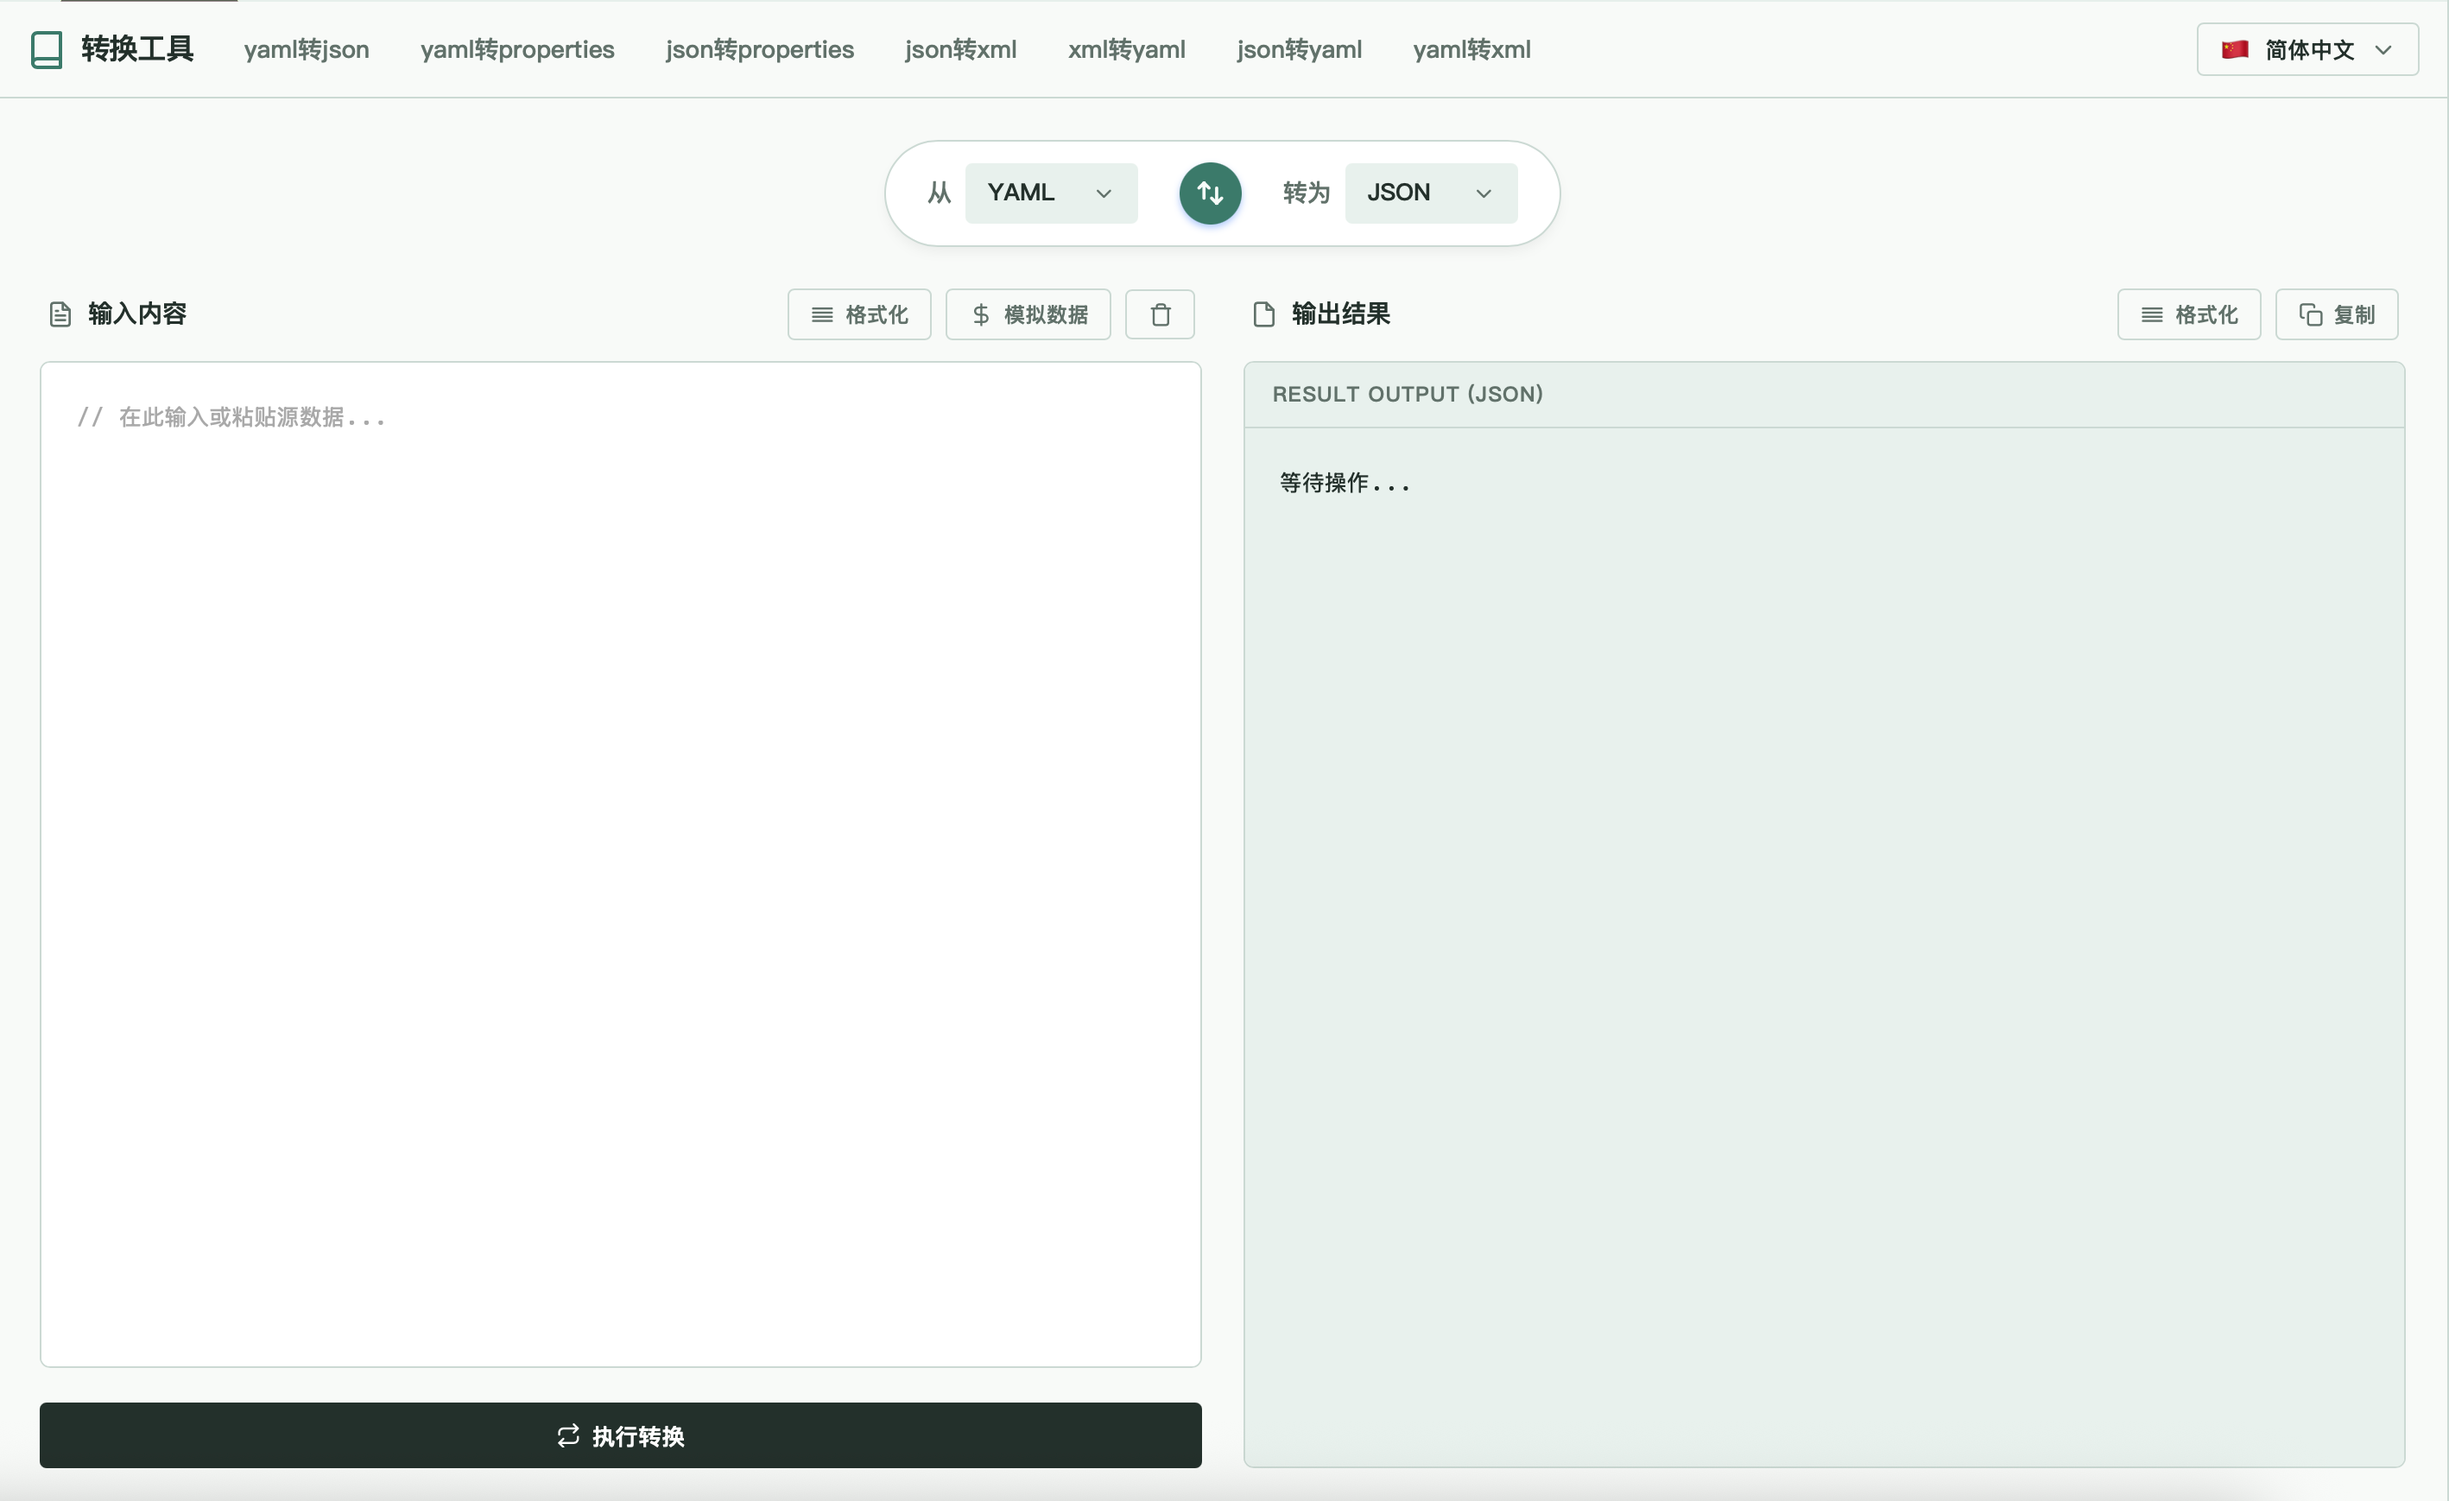
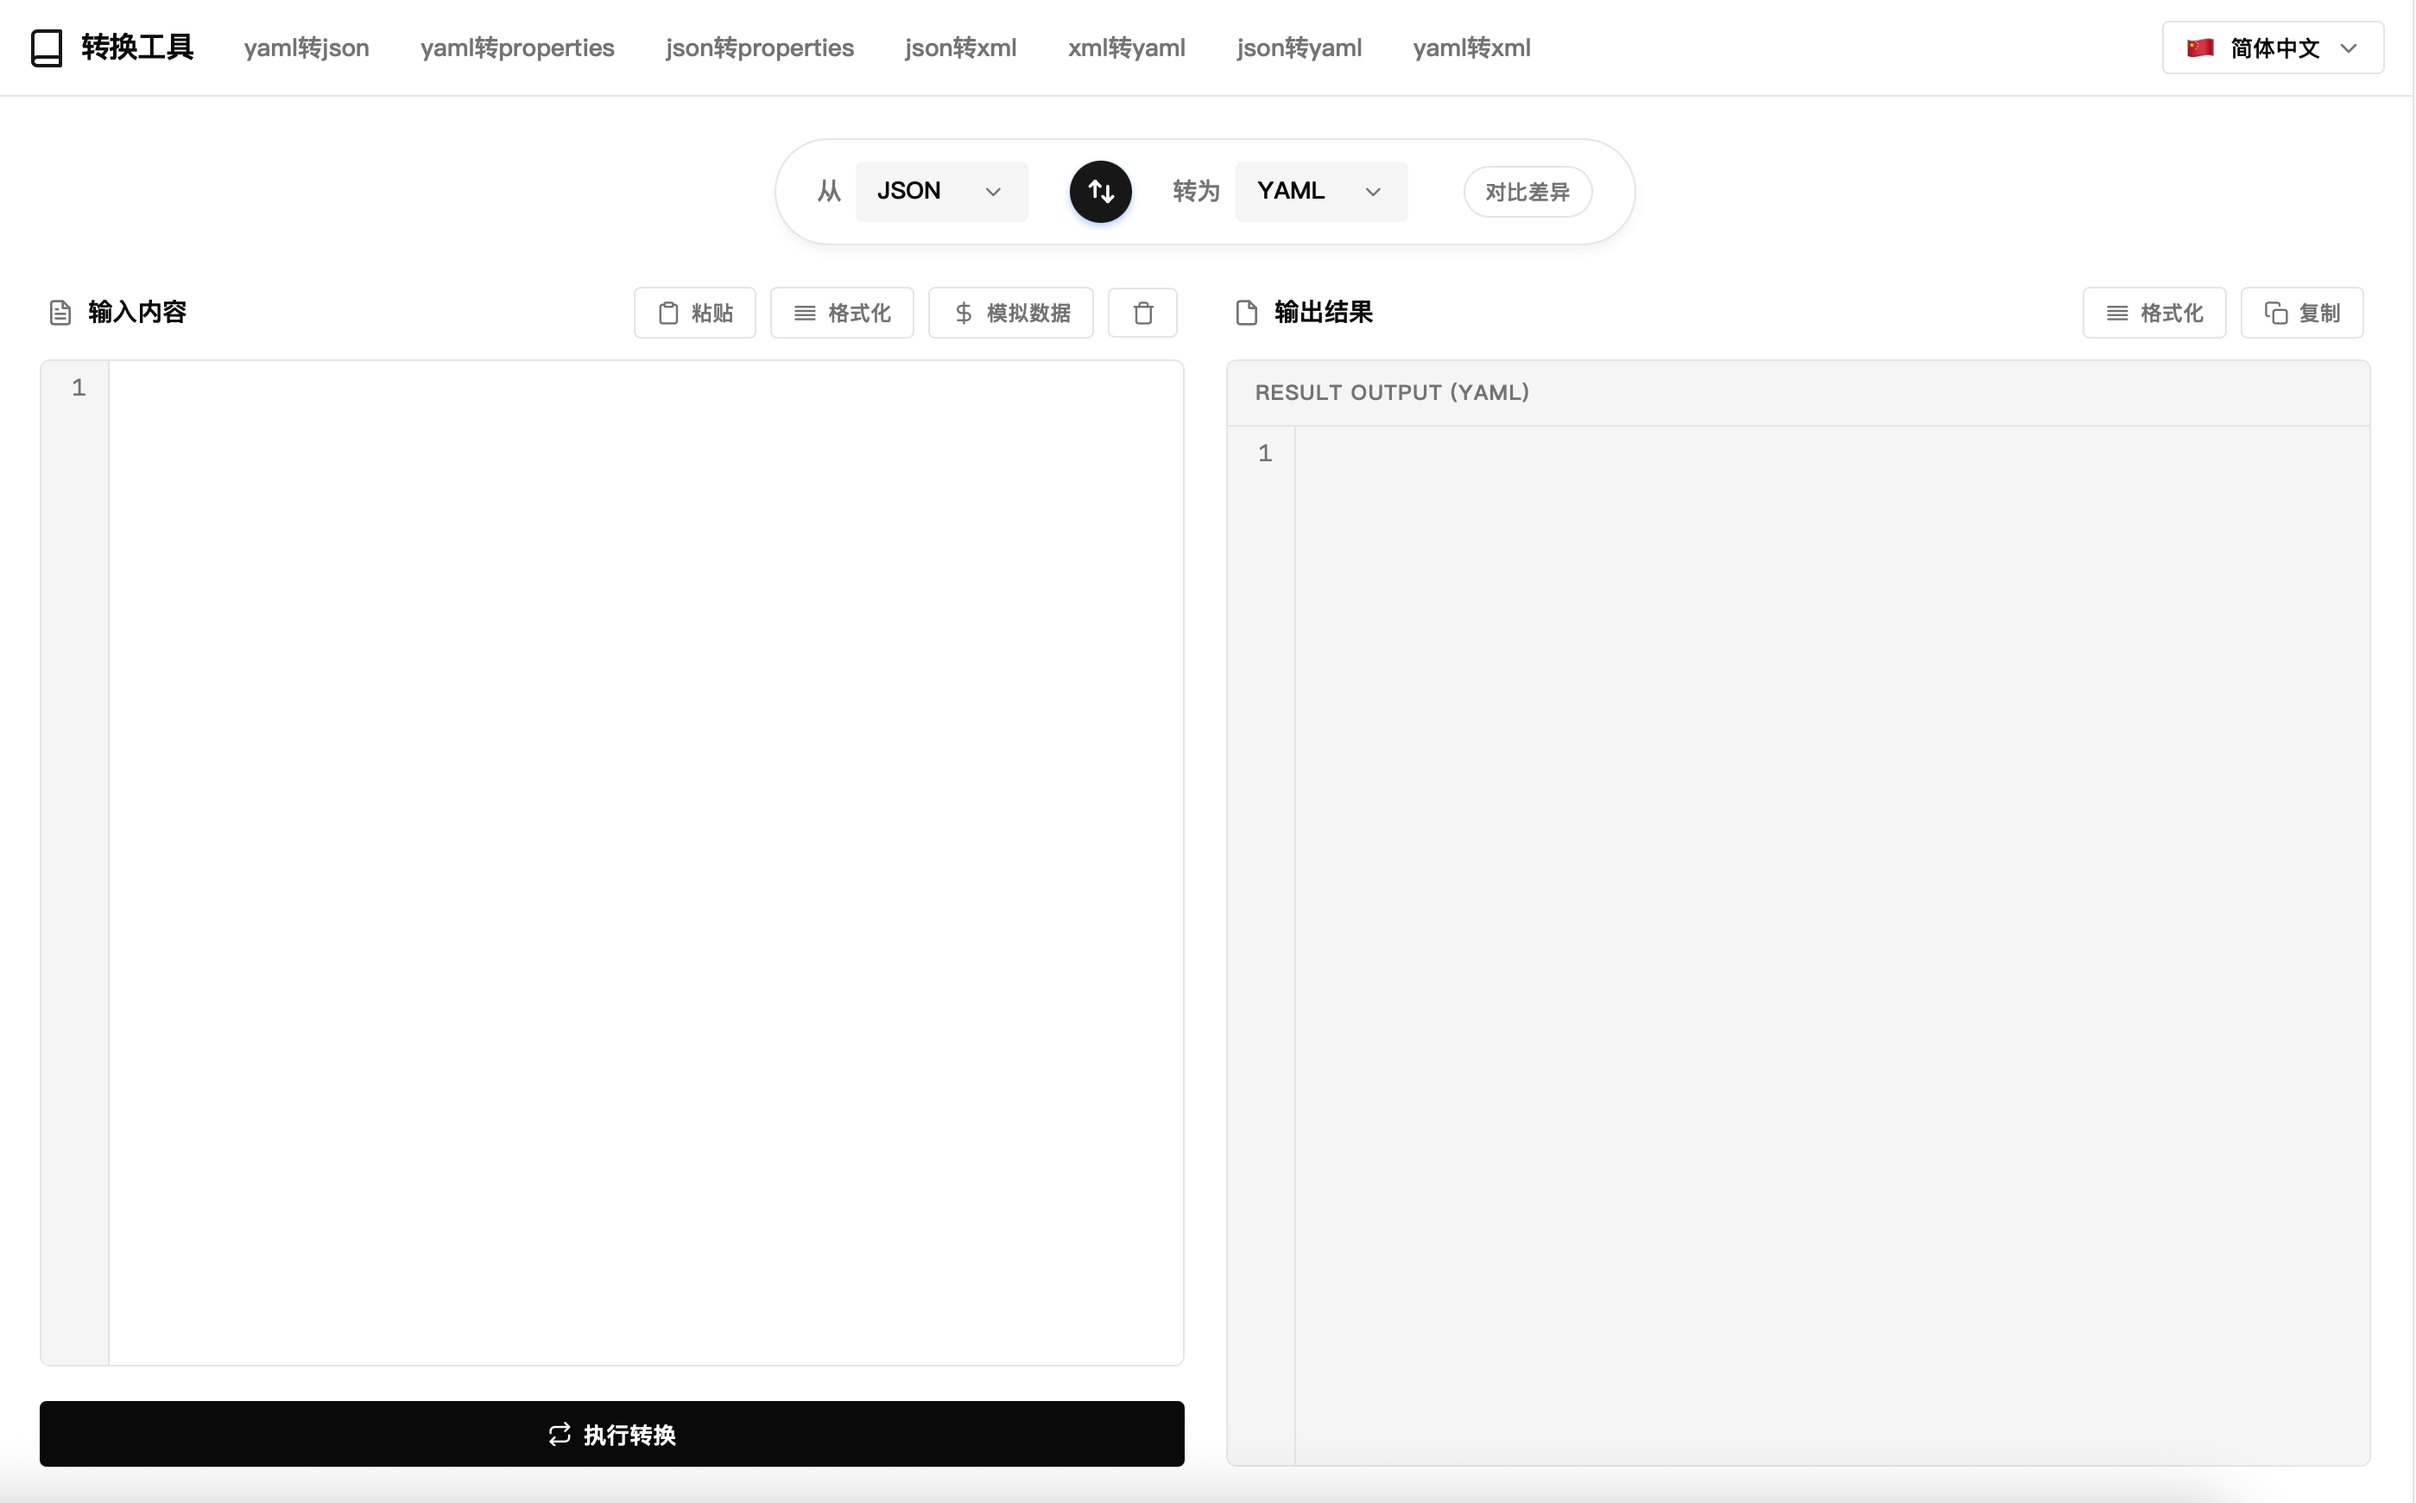
修改版本号，增加变更日志

diff --git a/CHANGELOG.md b/CHANGELOG.md
@@ -1,0 +1,27 @@
+# Changelog
+## [0.1.1]
+- **集成codemirror编辑器,优化体验**
+- **增加对比差异功能**
+
+## [0.1.0] 
+
+### ✨ 核心特性 (Features)
+
+*   **全格式支持**：完美支持 `JSON`、`YAML`、`XML` 和 `Properties` 四种主流配置文件格式的相互转换。
+*   **双向即时转换**：界面顶部一键互换 Source 与 Target 格式，实时预览转换结果。
+*   **智能语法识别**：当源格式解析失败时，自动尝试兼容解析（如将误贴的 YAML 识别为 JSON 处理），容错率极高。
+*   **一键模拟数据**：内置 Mock 数据生成器，无需手动输入，一键生成测试对象并直接转换，方便快速验证。
+*   **XML 格式化美化**：内置独立的 XML 格式化引擎，无论输入多混乱的 XML 都能瞬间排版整齐。
+
+### ⚡ DBX 深度集成 (DBX Integration)
+
+*   **原生系统剪贴板**：完美适配 DBX 宿主环境，利用 `dbxPlugin.copy` 与 `dbxPlugin.clipboard.readText()` 实现极速复制与粘贴，告别沙箱权限限制。
+*   **极客侧边栏交互**：针对 DBX 左侧快捷栏优化的高对比度科技感图标，暗黑/明亮主题下均拥有极佳辨识度。
+*   **国际化支持**：内置中文（简/繁）、英文等 10+ 种语言的多语言词典，自动跟随 DBX 宿主语言环境。
+*   **沙箱安全**：纯前端实现，无任何后端网络请求，数据完全在本地内存中处理，保障隐私零泄露。
+
+### 🛠 修复与优化 (Fixes & Improvements)
+
+*   优化了顶部导航栏的滚动条样式，解决横向内容过多时的滚动体验问题。
+*   针对浅色与深色模式（`data-dbx-theme`）进行了完整的 CSS 变量适配，切换主题无闪烁。
+*   引入了侧边栏专用 SVG 图标，优化了小尺寸下的显示清晰度。
